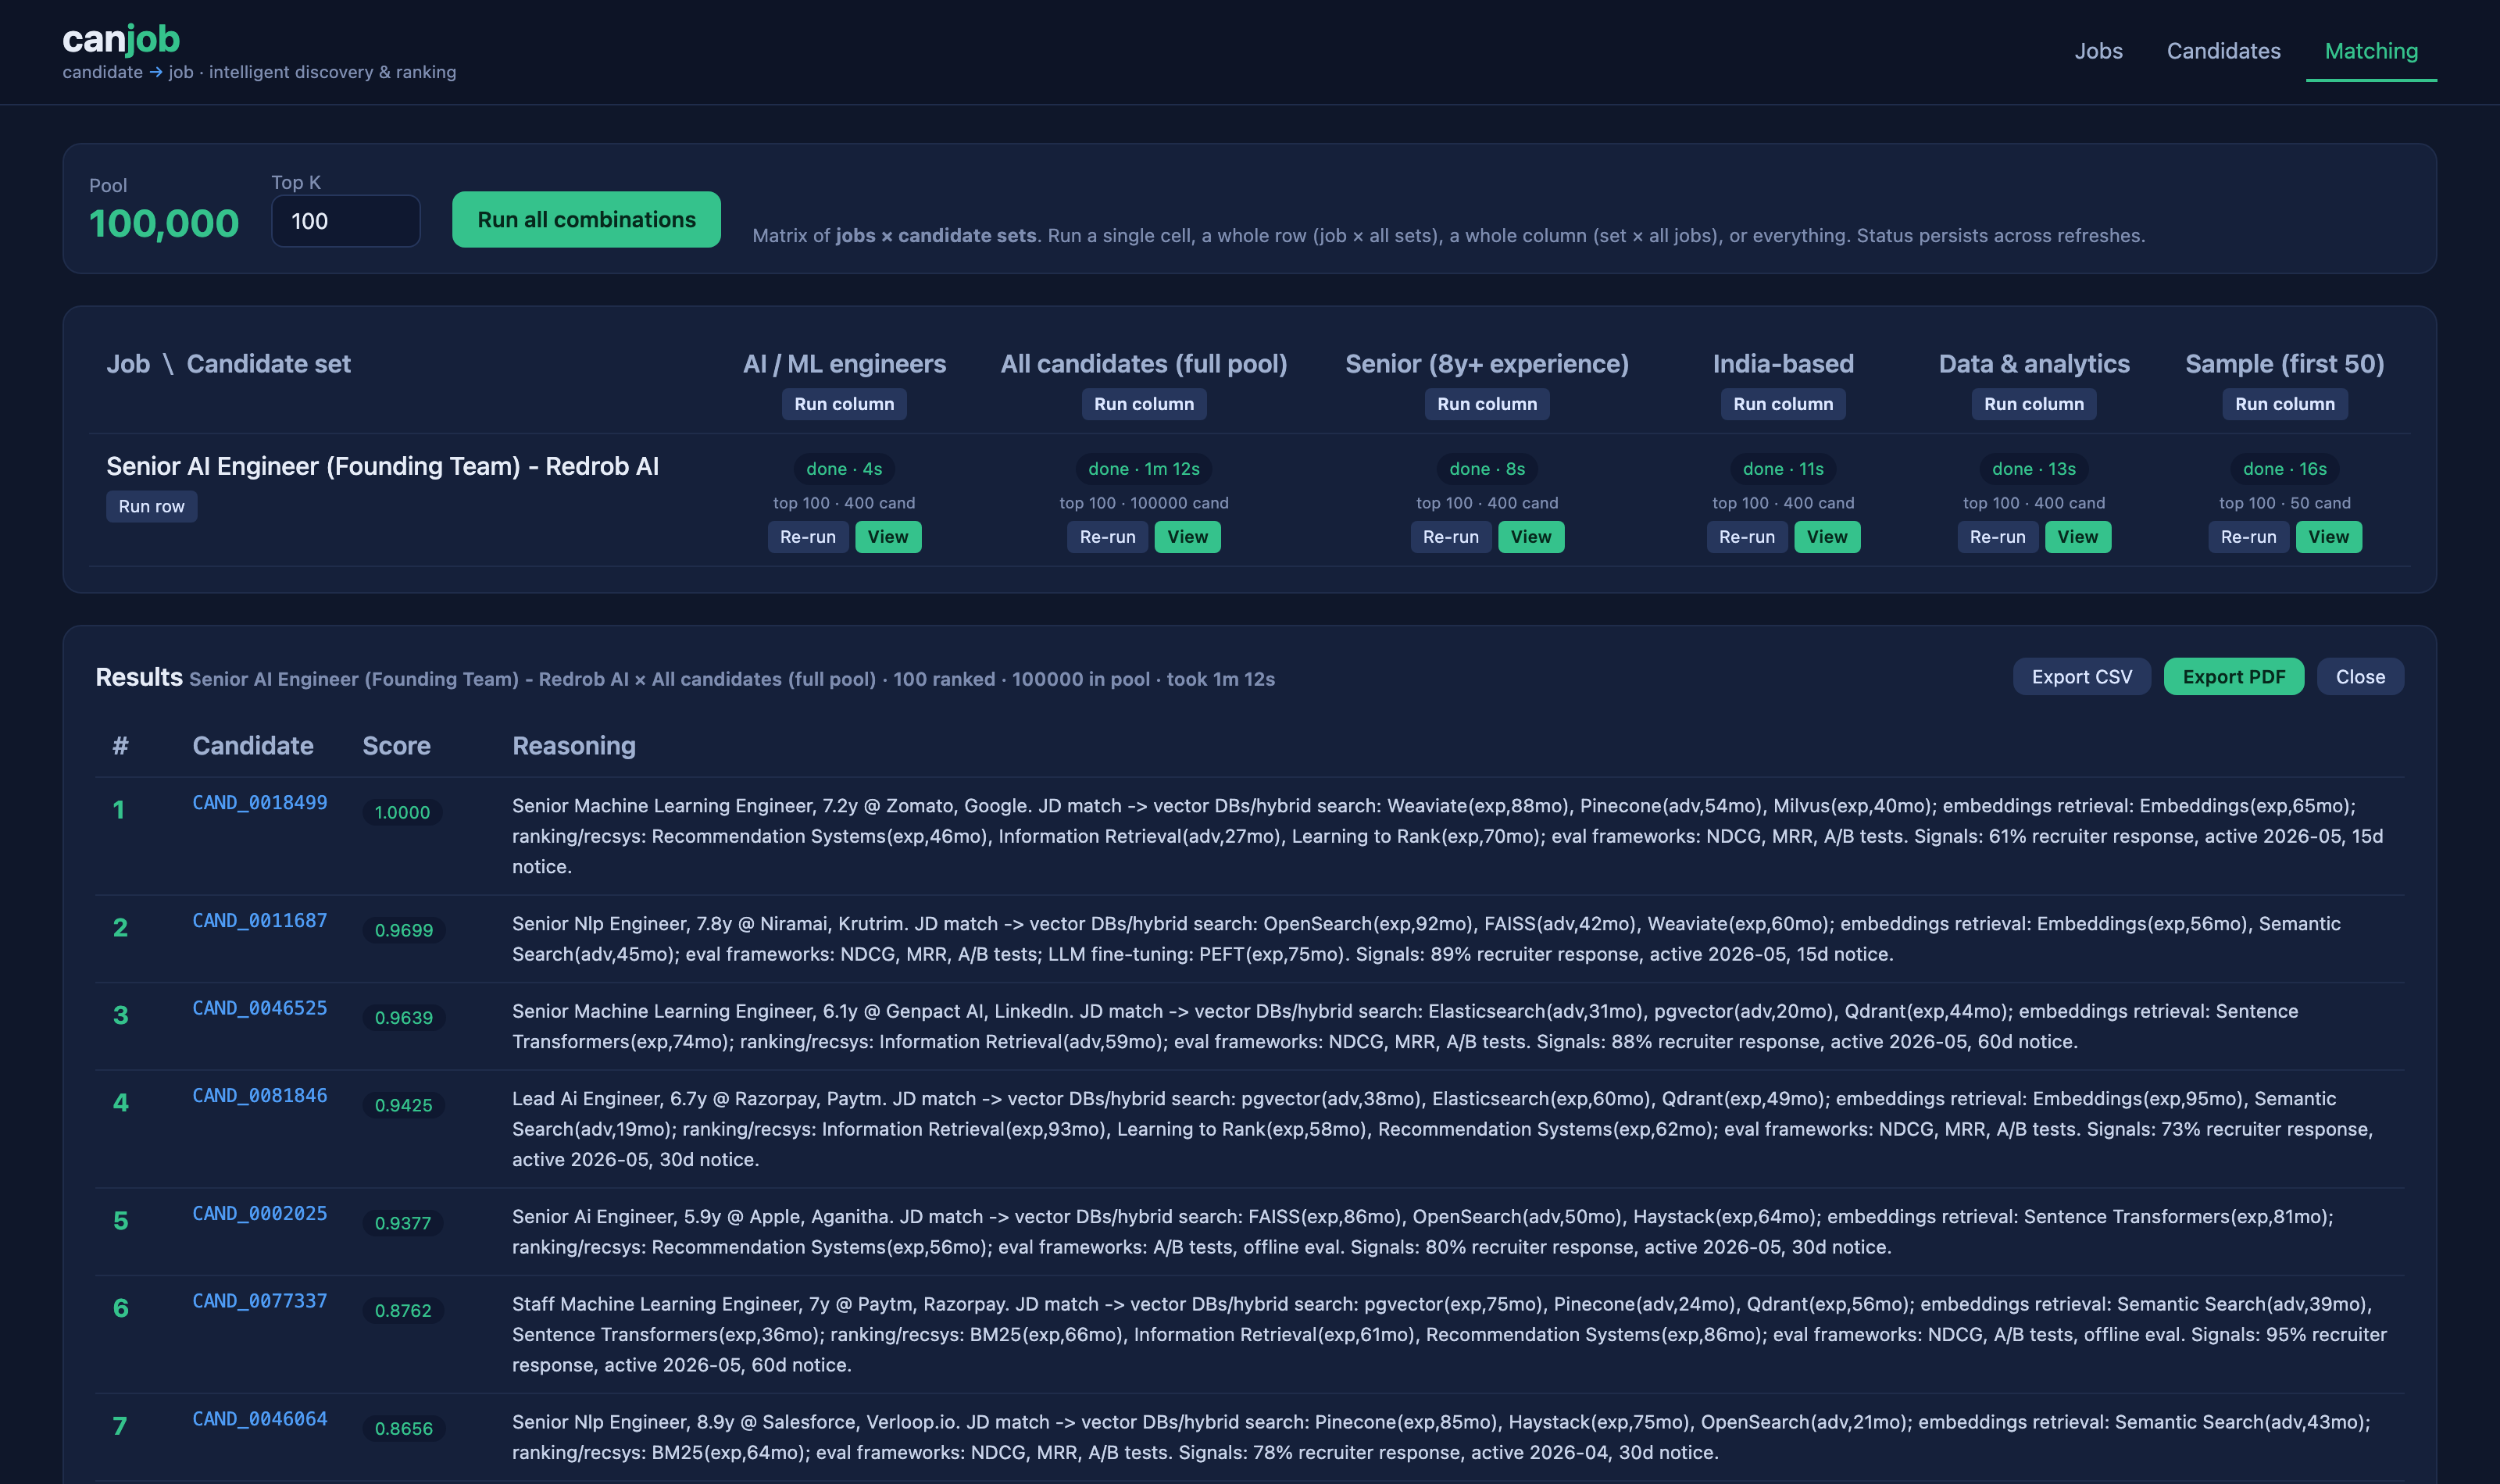
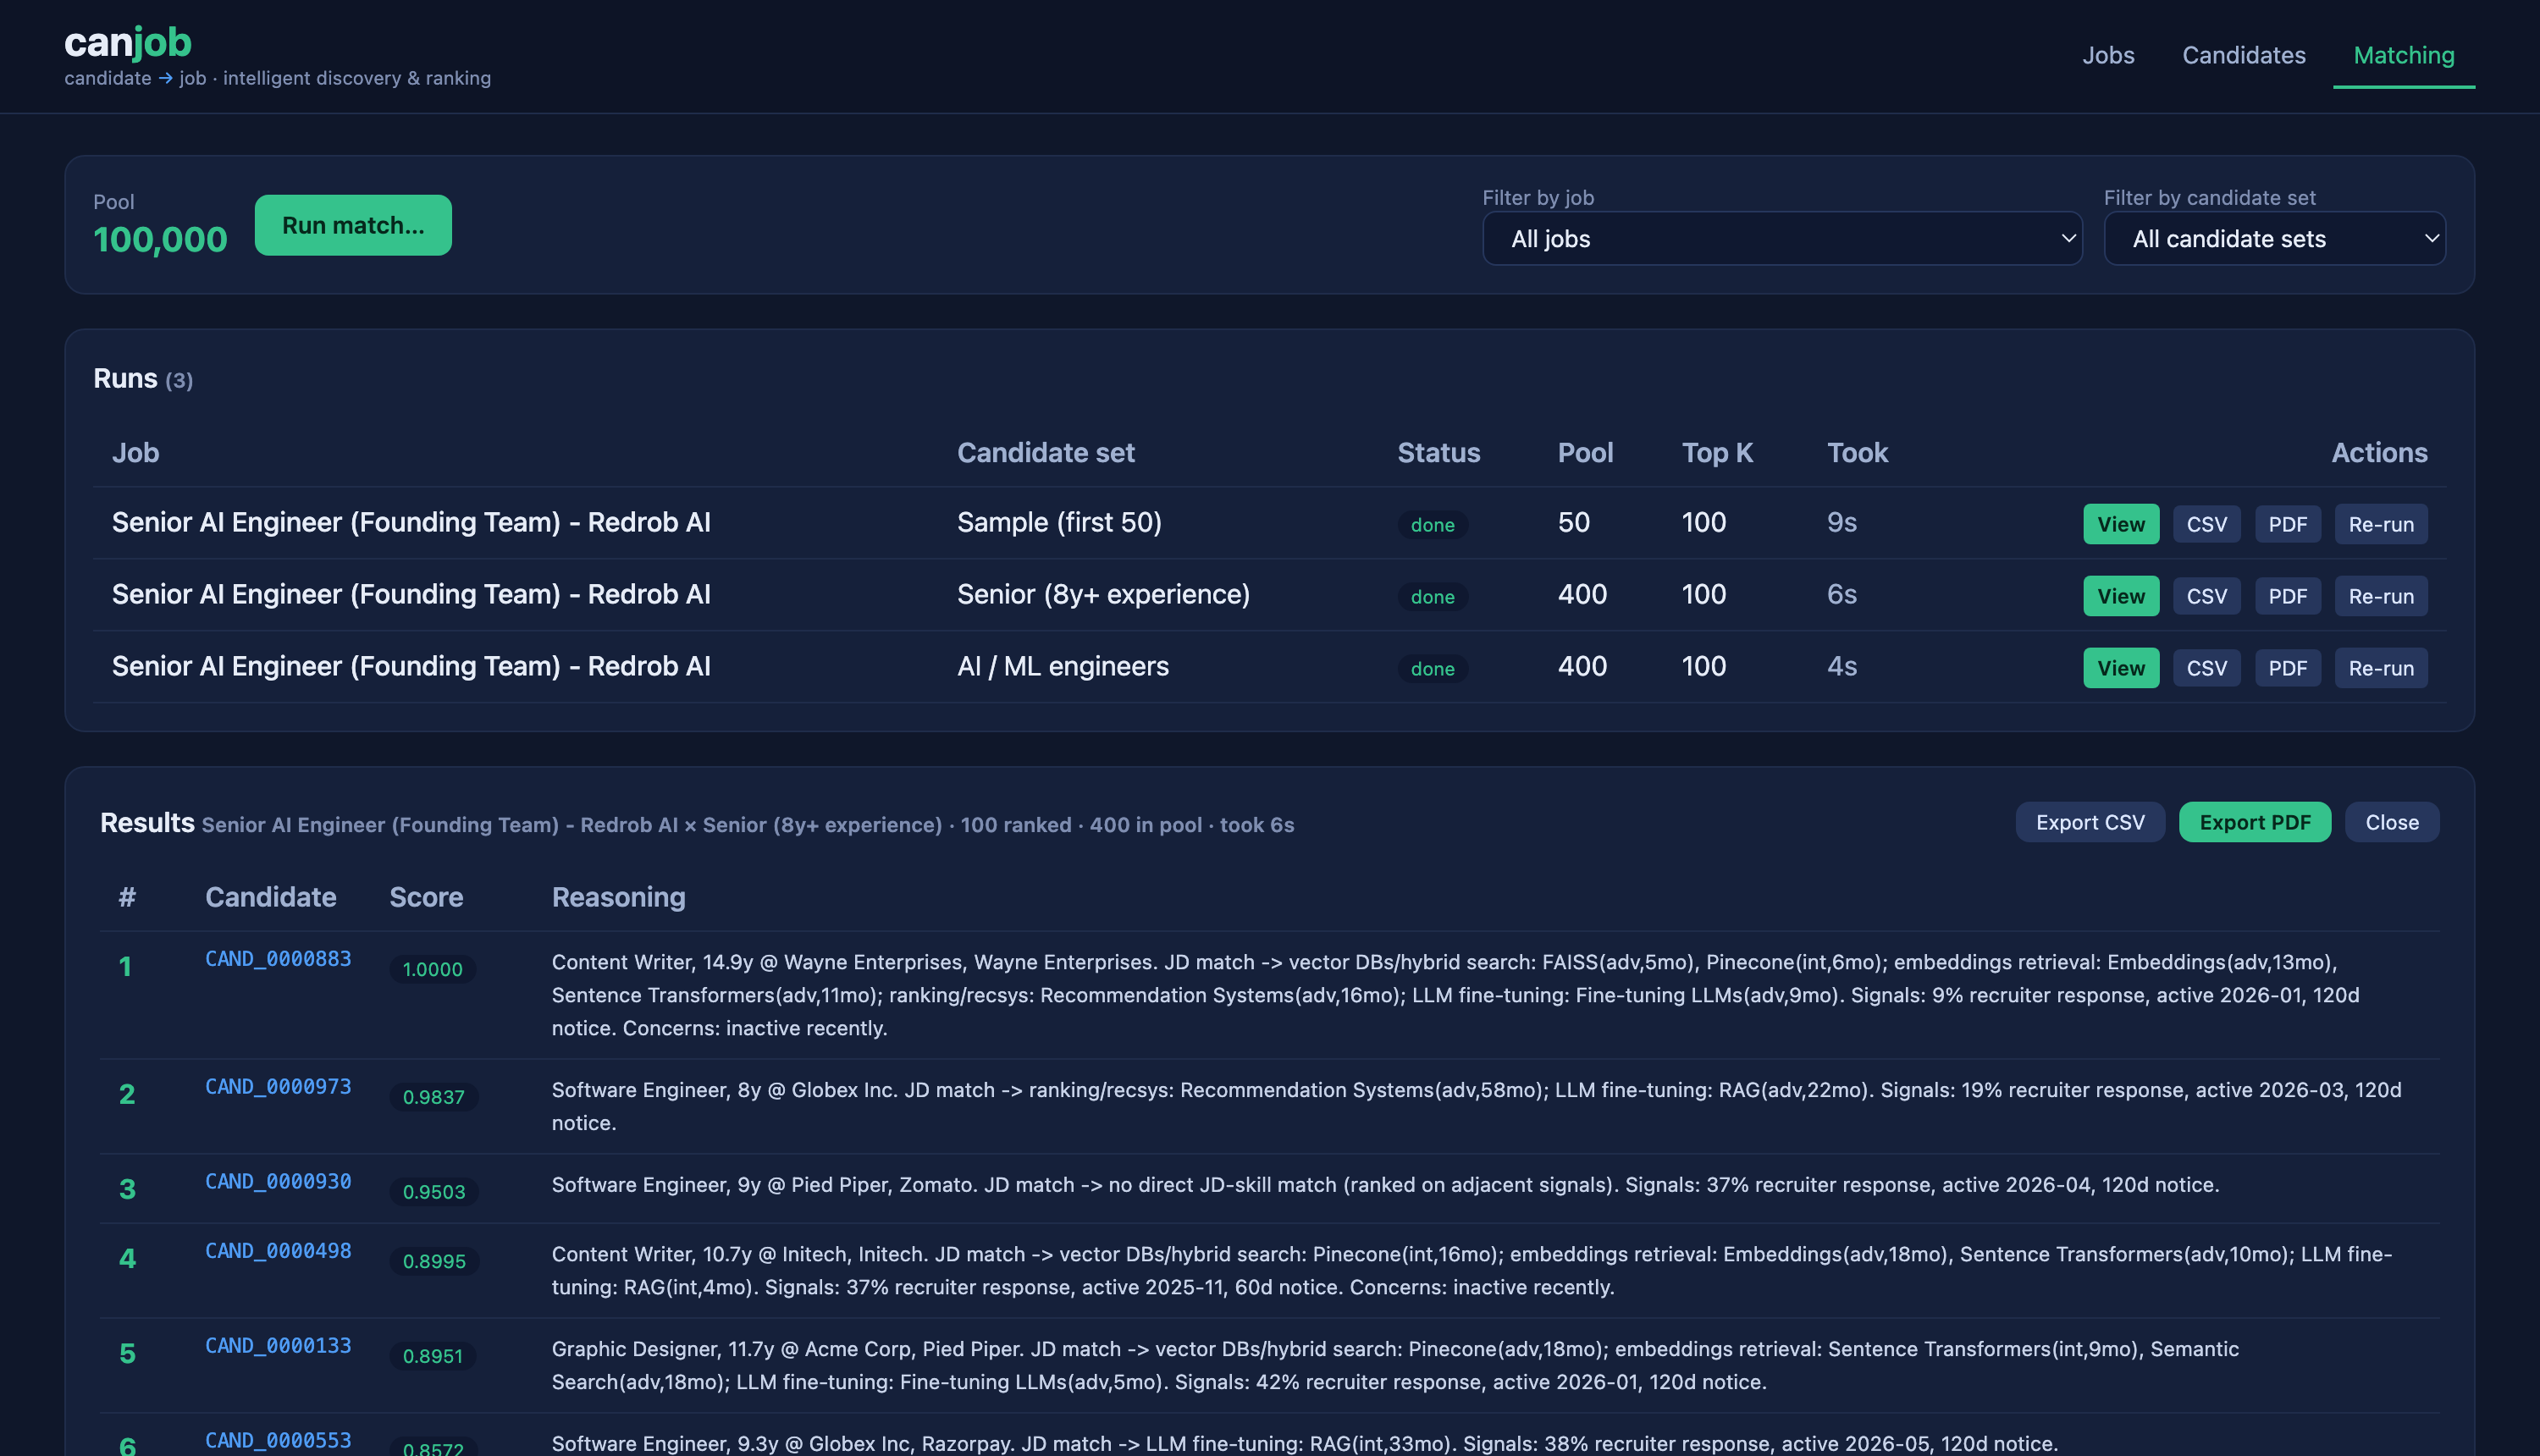
Web UI: run-match popup + filterable runs, results pagination, CSV import; AI-usage credit
- Replace the jobs x sets matrix with a Run-match popup (tick job(s) x candidate
  set(s); queues every combination) and a filterable runs table (filter by job
  or candidate set). Cleaner and scales beyond a grid.
- Paginate the ranked results table at 100 rows per page.
- Add validated CSV import for candidates and jobs (clear 400 on bad headers),
  alongside the existing CSV/PDF export.
- matching_matrix now returns candidate-set counts (fixes pool count + popup counts).
- README + deck: credit that the ideas/architecture are the developer's and the
  code was written quickly with Cursor; no LLM/API at rank time. Refresh the UI
  screenshot and rebuild the presentation PDF.

diff --git a/app/static/index.html b/app/static/index.html
@@ -62,6 +62,7 @@
         <h2 class="font-semibold" id="jobs-title">Jobs</h2>
         <div class="ml-auto flex gap-2">
           <button onclick="openAddJob()" class="btn rounded-lg px-3 py-1.5 text-sm">+ Add job</button>
+          <button onclick="triggerImport('jobs')" class="btn2 rounded-lg px-3 py-1.5 text-sm">Import CSV</button>
           <a id="jobs-csv" class="btn2 rounded-lg px-3 py-1.5 text-sm" href="#">Export CSV</a>
           <a id="jobs-pdf" class="btn2 rounded-lg px-3 py-1.5 text-sm" href="#">Export PDF</a>
         </div>
@@ -86,6 +87,7 @@
         <input id="c-search" class="rounded-lg px-3 py-1.5 text-sm w-56" placeholder="Search id / title / location / headline…" oninput="debouncedSearch()" />
         <div class="ml-auto flex gap-2">
           <button onclick="openAddCandidate()" class="btn rounded-lg px-3 py-1.5 text-sm">+ Add</button>
+          <button onclick="triggerImport('candidates')" class="btn2 rounded-lg px-3 py-1.5 text-sm">Import CSV</button>
           <a id="cand-csv" class="btn2 rounded-lg px-3 py-1.5 text-sm" href="#">Export CSV</a>
           <a id="cand-pdf" class="btn2 rounded-lg px-3 py-1.5 text-sm" href="#">Export PDF</a>
         </div>
@@ -107,14 +109,20 @@
 
   <!-- MATCHING -->
   <section id="view-matching" class="hidden">
-    <div class="card rounded-xl p-4 mb-5 flex flex-wrap items-end gap-5">
-      <div><div class="text-xs text-[#7e8db0]">Pool</div><div id="m-count" class="text-2xl font-bold accent">—</div></div>
-      <div><label class="text-xs text-[#7e8db0] block">Top K</label><input id="m-topk" type="number" value="100" class="rounded-lg px-3 py-1.5 text-sm w-24" /></div>
-      <button onclick="runAll()" class="btn rounded-lg px-4 py-2 text-sm">Run all combinations</button>
-      <p class="text-xs text-[#7e8db0] flex-1 min-w-[260px]">Matrix of <b>jobs × candidate sets</b>. Run a single cell, a whole row (job × all sets), a whole column (set × all jobs), or everything. Status persists across refreshes.</p>
+    <div class="card rounded-xl p-4 mb-5 flex flex-wrap items-center gap-4">
+      <div><div class="text-xs text-[#7e8db0]">Pool</div><div id="m-count" class="text-xl font-bold accent">—</div></div>
+      <button onclick="openRunModal()" class="btn rounded-lg px-4 py-2 text-sm">Run match…</button>
+      <div class="ml-auto flex gap-3 items-end flex-wrap">
+        <div><label class="text-xs text-[#7e8db0] block">Filter by job</label><select id="f-job" class="rounded-lg px-3 py-1.5 text-sm" onchange="renderRuns()"></select></div>
+        <div><label class="text-xs text-[#7e8db0] block">Filter by candidate set</label><select id="f-set" class="rounded-lg px-3 py-1.5 text-sm" onchange="renderRuns()"></select></div>
+      </div>
     </div>
-    <div class="card rounded-xl p-4 overflow-x-auto">
-      <table id="matrix"></table>
+    <div class="card rounded-xl p-4">
+      <h2 class="font-semibold mb-3">Runs <span id="runs-count" class="text-xs text-[#7e8db0]"></span></h2>
+      <div class="overflow-x-auto"><table>
+        <thead><tr><th>Job</th><th>Candidate set</th><th>Status</th><th>Pool</th><th>Top K</th><th>Took</th><th class="text-right">Actions</th></tr></thead>
+        <tbody id="runs-body"></tbody>
+      </table></div>
     </div>
 
     <div id="results" class="card rounded-xl p-5 mt-5 hidden">
@@ -130,6 +138,12 @@
         <thead><tr><th class="w-12">#</th><th>Candidate</th><th class="w-24">Score</th><th>Reasoning</th></tr></thead>
         <tbody id="results-body"></tbody>
       </table></div>
+      <div class="flex items-center gap-3 mt-3 text-sm">
+        <button onclick="resPage(-1)" class="btn2 rounded-lg px-3 py-1">Prev</button>
+        <span id="res-page" class="text-[#9fb0d0]"></span>
+        <button onclick="resPage(1)" class="btn2 rounded-lg px-3 py-1">Next</button>
+        <span class="text-[#7e8db0] text-xs ml-2">100 per page · click a row for the full profile</span>
+      </div>
     </div>
   </section>
 </main>
@@ -137,6 +151,7 @@
 <div id="modal" class="fixed inset-0 z-30 hidden items-start justify-center modal-bg overflow-y-auto py-10" onclick="if(event.target===this)closeModal()">
   <div id="modal-card" class="card rounded-2xl w-[92%] max-w-4xl mx-auto p-6 shadow-2xl"></div>
 </div>
+<input type="file" id="csvfile" accept=".csv,text/csv" class="hidden" onchange="handleImport(event)">
 <div id="toast" class="fixed bottom-5 right-5 card2 rounded-lg px-4 py-2 text-sm hidden z-40"></div>
 
 <script>
@@ -153,6 +168,22 @@ function fmtDur(s) { if (s == null) return "—"; if (s < 60) return s + "s"; co
 function openModal(h) { $("#modal-card").innerHTML = h; $("#modal").classList.remove("hidden"); $("#modal").classList.add("flex"); }
 function closeModal() { $("#modal").classList.add("hidden"); $("#modal").classList.remove("flex"); }
 document.addEventListener("keydown", e => { if (e.key === "Escape") closeModal(); });
+
+// ---- CSV import ----
+let importKind = null;
+function triggerImport(kind) { importKind = kind; const f = $("#csvfile"); f.value = ""; f.click(); }
+async function handleImport(e) {
+  const f = e.target.files[0]; if (!f) return;
+  const content = await f.text();
+  let set_ids = [];
+  if (importKind === "candidates") set_ids = (curCandSet && candSets.find(s => s.id === curCandSet)?.kind !== "all") ? [curCandSet] : [];
+  if (importKind === "jobs") set_ids = curJobSet ? [curJobSet] : [];
+  try {
+    const r = await api(`/import/${importKind}`, { method:"POST", headers:{"Content-Type":"application/json"}, body: JSON.stringify({ content, set_ids }) });
+    toast(`Imported ${r.imported} ${importKind}`);
+    importKind === "candidates" ? loadCandidatesTab() : loadJobsTab();
+  } catch (err) { let m = err.message; try { m = JSON.parse(m).detail || m; } catch {} alert("Import failed: " + m); }
+}
 
 document.querySelectorAll(".tab").forEach(b => b.onclick = () => showTab(b.dataset.tab));
 async function showTab(name) {
@@ -318,64 +349,109 @@ async function viewCandidate(id) {
 }
 
 // ============================== MATCHING ==================================
-let pollTimer = null;
+let pollTimer = null, matrixData = { jobs: [], candidate_sets: [], cells: {} };
 async function loadMatching() {
-  const m = await api("/matching/matrix");
-  const cnt = (await api("/candidate-sets")).reduce((a, s) => Math.max(a, s.kind === 'all' ? s.count : a), 0);
+  matrixData = await api("/matching/matrix");
+  const cnt = matrixData.candidate_sets.find(s => s.kind === 'all')?.count || 0;
   $("#m-count").textContent = cnt.toLocaleString();
-  const sets = m.candidate_sets;
-  const head = `<thead><tr><th class="text-left min-w-[180px]">Job ＼ Candidate set</th>${sets.map(s => `<th class="text-center min-w-[150px]"><div>${esc(s.name)}</div><button onclick="runCol(${s.id})" class="btn2 rounded px-2 py-0.5 text-[11px] mt-1">Run column</button></th>`).join("")}</tr></thead>`;
-  const body = m.jobs.map(j => `<tr>
-      <td><div class="font-medium">${esc(j.name)}</div><button onclick="runRow(${j.id})" class="btn2 rounded px-2 py-0.5 text-[11px] mt-1">Run row</button></td>
-      ${sets.map(s => cell(m.cells[`${j.id}_${s.id}`], j.id, s.id)).join("")}
-    </tr>`).join("");
-  $("#matrix").innerHTML = head + "<tbody>" + body + "</tbody>";
-  const active = Object.values(m.cells).some(c => c.status === "running" || c.status === "queued");
+  fillFilter("#f-job", "All jobs", matrixData.jobs);
+  fillFilter("#f-set", "All candidate sets", matrixData.candidate_sets);
+  renderRuns();
+  const active = Object.values(matrixData.cells).some(c => c.status === "running" || c.status === "queued");
   if (active && !pollTimer) pollTimer = setInterval(loadMatching, 1500);
   if (!active && pollTimer) { clearInterval(pollTimer); pollTimer = null; }
   const saved = localStorage.getItem("canjob_run");
   if (saved && $("#results").classList.contains("hidden")) { try { const r = await api("/runs/" + saved); if (r.status === "done") showResults(parseInt(saved)); } catch {} }
 }
-function cell(c, jobId, setId) {
-  if (!c) return `<td class="text-center"><button onclick="runCell(${jobId},${setId})" class="btn2 rounded px-2 py-1 text-xs">Run</button></td>`;
-  const color = c.status === "done" ? "#35c28c" : c.status === "error" ? "#ff9bb0" : "#4f9cf5";
-  const took = c.status === "done" ? ` · ${fmtDur(c.elapsed_seconds)}` : "";
-  return `<td class="text-center">
-    <div class="pill mb-1 inline-block" style="background:#0f1830;color:${color}">${c.status}${took}</div>
-    ${(c.status==='running'||c.status==='queued')?`<div class="bar h-1.5 mb-1"><div style="width:${c.progress}%"></div></div>`:''}
-    <div class="text-[10px] text-[#7e8db0] mb-1">${c.status==='done'?`top ${c.topk} · ${c.n_candidates??'—'} cand`:esc(c.stage||'')}</div>
-    <div class="flex gap-1 justify-center">
-      <button onclick="runCell(${jobId},${setId})" class="btn2 rounded px-2 py-0.5 text-[11px]">Re-run</button>
-      ${c.status==='done'?`<button onclick="showResults(${c.id})" class="btn rounded px-2 py-0.5 text-[11px]">View</button>`:''}
-    </div></td>`;
+function fillFilter(sel, allLabel, items) {
+  const el = $(sel), cur = el.value;
+  el.innerHTML = `<option value="all">${allLabel}</option>` + items.map(i => `<option value="${i.id}">${esc(i.name)}</option>`).join("");
+  if (cur) el.value = cur;
+}
+function renderRuns() {
+  const fj = $("#f-job").value, fs = $("#f-set").value;
+  const jobName = id => matrixData.jobs.find(j => j.id === id)?.name || id;
+  const setName = id => matrixData.candidate_sets.find(s => s.id === id)?.name || id;
+  let rows = Object.entries(matrixData.cells).map(([k, c]) => {
+    const [jid, sid] = k.split("_").map(Number);
+    return { jid, sid, c };
+  });
+  if (fj !== "all") rows = rows.filter(r => r.jid === parseInt(fj));
+  if (fs !== "all") rows = rows.filter(r => r.sid === parseInt(fs));
+  rows.sort((a, b) => b.c.id - a.c.id);
+  $("#runs-count").textContent = `(${rows.length})`;
+  $("#runs-body").innerHTML = rows.map(({ jid, sid, c }) => {
+    const color = c.status === "done" ? "#35c28c" : c.status === "error" ? "#ff9bb0" : "#4f9cf5";
+    return `<tr>
+      <td class="font-medium">${esc(jobName(jid))}</td>
+      <td>${esc(setName(sid))}</td>
+      <td><span class="pill" style="background:#0f1830;color:${color}">${c.status}</span>
+          ${(c.status==='running'||c.status==='queued')?`<div class="bar h-1.5 mt-1 w-24"><div style="width:${c.progress}%"></div></div><div class="text-[10px] text-[#7e8db0] mt-0.5">${esc(c.stage||'')}</div>`:''}</td>
+      <td>${c.n_candidates ?? '—'}</td><td>${c.topk}</td><td class="text-[#9fb0d0]">${c.status==='done'?fmtDur(c.elapsed_seconds):'—'}</td>
+      <td class="text-right whitespace-nowrap">
+        ${c.status==='done'?`<button onclick="showResults(${c.id})" class="btn rounded px-2 py-1 text-xs">View</button>
+          <a href="/api/export/run/${c.id}.csv" class="btn2 rounded px-2 py-1 text-xs ml-1">CSV</a>
+          <a href="/api/export/run/${c.id}.pdf" class="btn2 rounded px-2 py-1 text-xs ml-1">PDF</a>`:''}
+        <button onclick="batch([${jid}],[${sid}])" class="btn2 rounded px-2 py-1 text-xs ml-1">Re-run</button>
+      </td></tr>`;
+  }).join("") || `<tr><td colspan="7" class="text-[#7e8db0] text-sm">No runs yet. Click “Run match…”.</td></tr>`;
+}
+function openRunModal() {
+  const csets = matrixData.candidate_sets, jobs = matrixData.jobs;
+  const cb = (cls, i, checked) => `<label class="flex items-center gap-2 text-sm py-1"><input type="checkbox" class="${cls}" value="${i.id}" ${checked?'checked':''}> ${esc(i.name)}${i.count!==undefined?` <span class="text-[#7e8db0] text-xs">(${i.count.toLocaleString()})</span>`:''}</label>`;
+  openModal(`
+    <div class="flex items-center mb-4"><h3 class="text-lg font-semibold">Run a match</h3><button onclick="closeModal()" class="btn2 ml-auto rounded-lg px-3 py-1 text-xs">Close</button></div>
+    <div class="flex items-end gap-3 mb-4"><div><label class="text-xs text-[#9fb0d0] block">Top K</label><input id="run-topk" type="number" value="100" class="rounded-lg px-3 py-2 text-sm w-28"></div>
+      <p class="text-xs text-[#7e8db0] flex-1">Runs every selected <b>job</b> against every selected <b>candidate set</b> (max 40 combinations).</p></div>
+    <div class="grid grid-cols-2 gap-5">
+      <div><div class="flex items-center mb-1"><span class="text-xs uppercase tracking-wide accent2">Candidate sets</span><button onclick="selAll('run-set')" class="btn2 ml-auto rounded px-2 py-0.5 text-[11px]">All</button></div>
+        <div class="max-h-60 overflow-y-auto pr-1">${csets.map(s => cb('run-set', s, s.is_default)).join("")}</div></div>
+      <div><div class="flex items-center mb-1"><span class="text-xs uppercase tracking-wide accent">Jobs</span><button onclick="selAll('run-job')" class="btn2 ml-auto rounded px-2 py-0.5 text-[11px]">All</button></div>
+        <div class="max-h-60 overflow-y-auto pr-1">${jobs.map(j => cb('run-job', j, j.is_default)).join("")}</div></div>
+    </div>
+    <button onclick="runSelected()" class="btn w-full rounded-lg py-2.5 mt-5 text-sm">Run selected combinations</button>`);
+}
+function selAll(cls) { const all = [...document.querySelectorAll("." + cls)]; const on = all.some(c => !c.checked); all.forEach(c => c.checked = on); }
+async function runSelected() {
+  const jobs = [...document.querySelectorAll(".run-job:checked")].map(c => parseInt(c.value));
+  const sets = [...document.querySelectorAll(".run-set:checked")].map(c => parseInt(c.value));
+  if (!jobs.length || !sets.length) return toast("Pick at least one job and one candidate set");
+  if (jobs.length * sets.length > 40) return toast("Too many combinations (max 40)");
+  const topk = parseInt($("#run-topk").value) || 100;
+  await api("/runs/batch", { method:"POST", headers:{"Content-Type":"application/json"}, body: JSON.stringify({ job_ids: jobs, candidate_set_ids: sets, topk }) });
+  closeModal(); toast(`Queued ${jobs.length * sets.length} run(s)`); loadMatching();
 }
 async function batch(job_ids, set_ids) {
-  const topk = parseInt($("#m-topk").value) || 100;
-  await api("/runs/batch", { method:"POST", headers:{"Content-Type":"application/json"}, body: JSON.stringify({ job_ids, candidate_set_ids: set_ids, topk }) });
-  toast(`Queued ${job_ids.length * set_ids.length} run(s)`); loadMatching();
+  await api("/runs/batch", { method:"POST", headers:{"Content-Type":"application/json"}, body: JSON.stringify({ job_ids, candidate_set_ids: set_ids, topk: 100 }) });
+  toast("Re-run queued"); loadMatching();
 }
-async function runCell(j, s) { batch([j], [s]); }
-async function runRow(j) { const m = await api("/matching/matrix"); batch([j], m.candidate_sets.map(x => x.id)); }
-async function runCol(s) { const m = await api("/matching/matrix"); batch(m.jobs.map(x => x.id), [s]); }
-async function runAll() { const m = await api("/matching/matrix"); if (m.jobs.length * m.candidate_sets.length > 40) return toast("Too many combinations (max 40)"); batch(m.jobs.map(x => x.id), m.candidate_sets.map(x => x.id)); }
+let resRows = [], resPageN = 0, resRun = null; const RES_PER = 100;
 function closeResults() { localStorage.removeItem("canjob_run"); $("#results").classList.add("hidden"); }
 async function showResults(runId) {
   localStorage.setItem("canjob_run", runId);
-  let run, rows; try { run = await api("/runs/" + runId); rows = await api(`/runs/${runId}/results`); } catch { return; }
-  $("#results-meta").textContent = `${run.job_name||''} × ${run.set_name||''} · ${rows.length} ranked · ${run.n_candidates ?? '—'} in pool · took ${fmtDur(run.elapsed_seconds)}`;
+  try { resRun = await api("/runs/" + runId); resRows = await api(`/runs/${runId}/results`); } catch { return; }
+  resPageN = 0;
   $("#res-csv").href = `/api/export/run/${runId}.csv`; $("#res-pdf").href = `/api/export/run/${runId}.pdf`;
-  $("#results-body").innerHTML = rows.map(r => `
+  $("#results-meta").textContent = `${resRun.job_name||''} × ${resRun.set_name||''} · ${resRows.length} ranked · ${resRun.n_candidates ?? '—'} in pool · took ${fmtDur(resRun.elapsed_seconds)}`;
+  $("#results").classList.remove("hidden");
+  renderResPage();
+}
+function renderResPage() {
+  const start = resPageN * RES_PER, slice = resRows.slice(start, start + RES_PER);
+  $("#results-body").innerHTML = slice.map(r => `
     <tr class="click" onclick='viewCandidate("${esc(r.candidate_id)}")'>
       <td class="accent font-bold">${r.rank}</td><td class="font-mono text-xs accent2">${esc(r.candidate_id)}</td>
       <td><span class="pill" style="background:#0f1830;color:#35c28c">${r.score.toFixed(4)}</span></td>
       <td class="text-[#c7d2e8] text-xs leading-relaxed">${esc(r.reasoning)}</td></tr>`).join("");
-  $("#results").classList.remove("hidden");
+  $("#res-page").textContent = resRows.length ? `${start + 1}–${Math.min(start + RES_PER, resRows.length)} of ${resRows.length}` : "0";
 }
+function resPage(d) { const n = resPageN + d; if (n >= 0 && n * RES_PER < resRows.length) { resPageN = n; renderResPage(); } }
 
 (async () => {
   const q = new URLSearchParams(location.search);
   if (q.get("run")) localStorage.setItem("canjob_run", q.get("run"));
   await showTab(q.get("tab") || "jobs");
+  if (q.get("runmodal")) openRunModal();
 })();
 </script>
 </body>

diff --git a/app/server.py b/app/server.py
@@ -6,6 +6,8 @@ Run:
 """
 from __future__ import annotations
 
+import csv as csvmod
+import io
 import itertools
 import os
 import sys
@@ -50,6 +52,21 @@ class BatchRunIn(BaseModel):
     job_ids: list[int]
     candidate_set_ids: list[int]
     topk: int = 100
+
+
+class ImportIn(BaseModel):
+    content: str
+    set_ids: list[int] = []
+
+
+def _read_csv(content: str) -> list[dict]:
+    try:
+        rows = list(csvmod.DictReader(io.StringIO(content)))
+    except Exception as e:  # noqa: BLE001
+        raise HTTPException(400, f"Could not parse CSV: {e}")
+    if not rows:
+        raise HTTPException(400, "CSV has a header but no data rows.")
+    return [{(k or "").strip().lower(): (v or "").strip() for k, v in r.items()} for r in rows]
 
 
 def _csv_resp(text: str, name: str) -> Response:
@@ -216,6 +233,48 @@ def api_jobs_csv(set_id: int | None = None):
 @app.get("/api/export/jobs.pdf")
 def api_jobs_pdf(set_id: int | None = None):
     return _pdf_resp(exports.jobs_pdf(set_id), "canjob_jobs.pdf")
+
+
+# ------------------------------- imports ------------------------------------
[email redacted]("/api/import/candidates")
+def api_import_candidates(body: ImportIn):
+    rows = _read_csv(body.content)
+    if "title" not in rows[0]:
+        raise HTTPException(400, "Candidate CSV must include a 'title' column. "
+                                 "Expected header: candidate_id,title,yoe,location,headline")
+    n = 0
+    for r in rows:
+        if not r.get("title"):
+            continue
+        try:
+            yoe = float(r["yoe"]) if r.get("yoe") else None
+        except ValueError:
+            yoe = None
+        db.add_candidate({
+            "candidate_id": r.get("candidate_id") or None, "title": r["title"], "yoe": yoe,
+            "location": r.get("location", ""), "skills": r.get("skills", ""),
+            "summary": r.get("summary") or r.get("headline", ""),
+        }, body.set_ids)
+        n += 1
+    return {"imported": n}
+
+
[email redacted]("/api/import/jobs")
+def api_import_jobs(body: ImportIn):
+    rows = _read_csv(body.content)
+    cols = set(rows[0].keys())
+    if "name" not in cols or not ({"jd_markdown", "jd", "description"} & cols):
+        raise HTTPException(400, "Job CSV must include a 'name' column and a 'jd_markdown' "
+                                 "(or 'description') column.")
+    n = 0
+    for r in rows:
+        name = r.get("name", "")
+        jd = r.get("jd_markdown") or r.get("jd") or r.get("description") or ""
+        if not name or not jd:
+            continue
+        db.add_job(name, jd, body.set_ids)
+        n += 1
+    return {"imported": n}
 
 
 # ------------------------------- UI -----------------------------------------

diff --git a/app/db.py b/app/db.py
@@ -482,8 +482,18 @@ def matching_matrix() -> Dict[str, Any]:
     conn = get_conn()
     jobs = [dict(j) for j in conn.execute(
         "SELECT id, name, is_default FROM jobs ORDER BY is_default DESC, id ASC").fetchall()]
-    csets = [dict(s) for s in conn.execute(
-        "SELECT id, name, kind, is_default FROM candidate_sets ORDER BY is_default DESC, id ASC").fetchall()]
+    total_pool = conn.execute("SELECT COUNT(*) FROM candidates WHERE removed=0").fetchone()[0]
+    csets = []
+    for s in conn.execute("SELECT id, name, kind, is_default FROM candidate_sets "
+                          "ORDER BY is_default DESC, id ASC").fetchall():
+        if s["kind"] == "all":
+            cnt = total_pool
+        else:
+            cnt = conn.execute(
+                "SELECT COUNT(*) FROM candidate_set_members m JOIN candidates c "
+                "ON c.candidate_id=m.candidate_id WHERE m.set_id=? AND c.removed=0",
+                (s["id"],)).fetchone()[0]
+        csets.append({**dict(s), "count": cnt})
     cells = {}
     for r in conn.execute(
         "SELECT id, job_id, candidate_set_id, status, progress, stage, n_candidates, topk, "

diff --git a/README.md b/README.md
@@ -102,7 +102,7 @@ The image installs only core deps (no torch) and copies the committed semantic a
 
 A small FastAPI backend and a single-page UI (`app/`) wrap the exact same ranking engine so you can drive it from a browser.
 
-![CanJob web UI: the jobs x candidate-sets matching matrix with per-cell timing, and a ranked run with CSV/PDF export](docs/ui_screenshot.png)
+![CanJob web UI: pick job(s) and candidate set(s) in a Run-match popup, see a filterable list of runs with timing, and open a paginated ranked run with CSV/PDF export](docs/ui_screenshot.png)
 
 ```bash
 pip install -r requirements.txt -r requirements-app.txt
@@ -113,10 +113,10 @@ python app/server.py          # open http://127.0.0.1:8000
 
 Three tabs, one page:
 
-- **Jobs** - the released JD is pre-loaded as the default job and rendered as markdown. Group jobs into **job sets**; add or remove ad-hoc jobs by pasting a JD (ad-hoc jobs are ranked from their JD text; the default job uses the tuned config + precomputed semantic scores).
-- **Candidates** - the 100k pool is pre-loaded; a few **candidate sets** are seeded (AI/ML engineers, Senior 8y+, India-based, Data & analytics, Sample, plus the full pool) so the UI stays light. Each row shows a headline preview with a hidden-character count; click a row for the full profile. Search, paginate, add/remove, tick rows and save the selection as a new set.
-- **Matching** - a **matrix of jobs x candidate sets**. Run a single cell, a whole row (job x all sets), a whole column (set x all jobs), or everything. Runs are serialized through a background worker with a live, refresh-proof progress bar; each finished cell shows timing and opens the ranked top-K (0-1 fit score + evidence reasoning).
-- **Export** - download any ranked run as **CSV** or a **print-ready PDF** (also candidates and jobs), so the ranked output can be submitted as a document.
+- **Jobs** - the released JD is pre-loaded as the default job and rendered as markdown. Group jobs into **job sets**; add or remove ad-hoc jobs by pasting a JD (ad-hoc jobs are ranked from their JD text; the default job uses the tuned config + precomputed semantic scores). **Import** jobs from a CSV (`name,jd_markdown`) and **export** to CSV/PDF.
+- **Candidates** - the 100k pool is pre-loaded; a few **candidate sets** are seeded (AI/ML engineers, Senior 8y+, India-based, Data & analytics, Sample, plus the full pool) so the UI stays light. Each row shows a headline preview with a hidden-character count; click a row for the full profile. Search, paginate, add/remove, tick rows and save the selection as a new set. **Import** candidates from a CSV (`candidate_id,title,yoe,location,headline`, the same shape as the export); a malformed header raises a clear error.
+- **Matching** - a **Run-match popup** where you tick the **job(s)** and the **candidate set(s)** you want; it queues every selected job x set combination (matching is set-level, not per-candidate, to stay simple). Runs are serialized through a background worker with a live, refresh-proof progress bar and listed in a **filterable runs table** (filter by job or by candidate set). Each finished run shows timing and opens the ranked top-K, **paginated 100 per page** (0-1 fit score + evidence reasoning).
+- **Export / import** - download any ranked run as **CSV** or a **print-ready PDF** (also candidates and jobs); import jobs and candidates from CSV with format validation. The ranked output can be submitted as a document straight from the UI.
 
 State lives in a local SQLite file (`app/canjob_app.db`, gitignored). The UI runs the identical featurize -> 3-lens score -> RRF -> honeypot-filter pipeline as `rank.py`.
 
@@ -142,3 +142,7 @@ submission_metadata.yaml
 ## Output
 
 `submission.csv`: exactly 100 rows, UTF-8, columns `candidate_id,rank,score,reasoning`, scores non-increasing, ranks 1..100 unique, validated by `validate_submission.py`. The reasoning cites concrete evidence (named skills with proficiency and months, product vs services employers, evaluation terms found in the candidate's own writing) mapped to JD requirements, with honest concerns where they exist.
+
+## Credits & AI usage
+
+The ideas and design here are mine (the developer): the three-lens ensemble (rules + lexical + semantic) fused with RRF, modelling the JD as per-job config, the high-precision honeypot logic, the offline precompute / in-budget rank split, reusing a local search engine, and the whole web-UI design (sets, the run-match flow, exports). I used **Cursor** (an AI coding assistant) to turn those ideas into code quickly, refactor, and write the boilerplate. No candidate data is sent to any hosted LLM and the ranking step makes zero LLM/API calls; the only model used anywhere is the local MiniLM in the offline pre-computation. In short: the architecture and decisions are human; the typing was accelerated with AI.